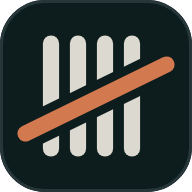
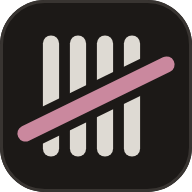
Replace palette with warm graphite and dusty rose; name tokens by role
- New palette: warm graphite ground, soft chalk text, dusty-rose accent,
  sage positive, straw caution, red danger; all text pairs pass AA
- Rename tokens by role (ground, accent, positive, caution, danger) so a
  retheme never leaves a misleading name; update script, preview and docs
- Regenerate logo set and PNGs from the new tokens

Claude-Session: https://claude.ai/code/session_01QeMCNkGiVxP5V43JLK8QcR

Changed region(s): [[0.0938, 0.2812, 0.9062, 0.75]]

diff --git a/preview/brand.html b/preview/brand.html
@@ -27,9 +27,9 @@
   .plate { border-radius: var(--radius-lg); min-height: 200px; display: grid; place-items: center; padding: 28px; border: 1px solid var(--line); }
   .plate img { max-width: 100%; height: 56px; }
   .plate small { display: block; }
-  .plate.on-slate { background: var(--bg-sidebar); }
+  .plate.on-ground { background: var(--bg-sidebar); }
   .plate.on-chalk { background: var(--chalk-100); border-color: transparent; }
-  .plate.on-minium { background: var(--minium); border-color: transparent; }
+  .plate.on-accent { background: var(--accent); border-color: transparent; }
   .rules { display: grid; grid-template-columns: repeat(3, 1fr); gap: 32px; margin-top: 32px; color: var(--text-2); }
   .rules b { display: block; color: var(--text); margin-bottom: 4px; font-weight: 600; }
   .sizes { display: flex; align-items: flex-end; gap: 28px; margin-top: 8px; flex-wrap: wrap; }
@@ -97,7 +97,7 @@
     <div>
       <p class="eyebrow">Brand board · v1</p>
       <h1>Every transaction,<br><em>counted.</em></h1>
-      <p>Tally is a personal ledger. Petrol-green cloth, chalk-white figures, and a single orange stroke for whatever needs your attention.</p>
+      <p>Tally is a personal ledger. Warm graphite, soft chalk figures, and a single rose stroke for whatever needs your attention.</p>
     </div>
     <img class="tile" src="../brand/tally-icon.svg" alt="Tally app icon">
   </section>
@@ -105,15 +105,15 @@
   <section>
     <p class="eyebrow">Logo</p>
     <h2>Four counted, one struck.</h2>
-    <p class="lede">A tally is the oldest way to keep count of money owed. Four chalk strokes, then a fifth drawn across them in rubric orange, the ink that scribes used for ledger totals. The diagonal also reads as a line trending up. In the wordmark, the bars are cut to the exact height of the two l’s.</p>
+    <p class="lede">A tally is the oldest way to keep count of money owed. Four chalk strokes, then a fifth drawn across them in the accent colour. The diagonal also reads as a line trending up. In the wordmark, the bars are cut to the exact height of the two l’s.</p>
     <div class="plates">
-      <div class="plate on-slate"><img src="../brand/tally-logo.svg" alt="Tally logo on slate"></div>
+      <div class="plate on-ground"><img src="../brand/tally-logo.svg" alt="Tally logo on ground"></div>
       <div class="plate on-chalk"><img src="../brand/tally-logo-on-light.svg" alt="Tally logo on chalk"></div>
-      <div class="plate on-minium"><img src="../brand/tally-mark-on-minium.svg" style="height:88px" alt="Tally mark on minium"></div>
+      <div class="plate on-accent"><img src="../brand/tally-mark-on-accent.svg" style="height:88px" alt="Tally mark on accent"></div>
     </div>
     <div class="rules">
       <div><b>Clear space</b>Keep one bar-height clear on every side. Nothing crosses the diagonal.</div>
-      <div><b>Colour</b>Chalk strokes with orange diagonal on slate. Slate strokes with the deeper orange (<span data-hex-text="--minium-deep"></span>) on light. On orange: slate strokes, chalk diagonal.</div>
+      <div><b>Colour</b>Chalk strokes with the accent diagonal on dark. Dark strokes with the deeper accent (<span data-hex-text="--accent-deep"></span>) on light. On the accent colour: dark strokes, chalk diagonal.</div>
       <div><b>Smallest size</b>Lockup: 96px wide. Mark alone: 16px. Below 24px use the heavier favicon cut.</div>
     </div>
     <div class="sizes" style="margin-top:40px">
@@ -128,27 +128,27 @@
 
   <section>
     <p class="eyebrow">Colour</p>
-    <h2>Petrol, chalk, and one orange.</h2>
-    <p class="lede">Surfaces step up in even lightness from the page to menus. Text is chalk, never pure white. Orange is reserved for the brand and the primary action, so when it appears it means something.</p>
+    <h2>Graphite, chalk, and one rose.</h2>
+    <p class="lede">Surfaces step up in even lightness from the page to menus. Text is chalk, never pure white. The accent is reserved for the brand and the primary action, so when it appears it means something.</p>
     <div class="ramp">
-      <div data-bg="--slate-950"><b>Slate 950</b><span class="hex"></span><span>Page</span></div>
-      <div data-bg="--slate-900"><b>Slate 900</b><span class="hex"></span><span>Sidebar, footer</span></div>
-      <div data-bg="--slate-850"><b>Slate 850</b><span class="hex"></span><span>Cards, inputs</span></div>
-      <div data-bg="--slate-800"><b>Slate 800</b><span class="hex"></span><span>Row hover</span></div>
-      <div data-bg="--slate-750"><b>Slate 750</b><span class="hex"></span><span>Menus</span></div>
-      <div data-bg="--slate-700"><b>Slate 700</b><span class="hex"></span><span>Hairlines</span></div>
-      <div data-bg="--slate-600"><b>Slate 600</b><span class="hex"></span><span>Borders</span></div>
+      <div data-bg="--ground-950"><b>Ground 950</b><span class="hex"></span><span>Page</span></div>
+      <div data-bg="--ground-900"><b>Ground 900</b><span class="hex"></span><span>Sidebar, footer</span></div>
+      <div data-bg="--ground-850"><b>Ground 850</b><span class="hex"></span><span>Cards, inputs</span></div>
+      <div data-bg="--ground-800"><b>Ground 800</b><span class="hex"></span><span>Row hover</span></div>
+      <div data-bg="--ground-750"><b>Ground 750</b><span class="hex"></span><span>Menus</span></div>
+      <div data-bg="--ground-700"><b>Ground 700</b><span class="hex"></span><span>Hairlines</span></div>
+      <div data-bg="--ground-600"><b>Ground 600</b><span class="hex"></span><span>Borders</span></div>
     </div>
     <div class="signals">
-      <div class="sw" data-bg="--minium" data-fg="--minium-ink"><div><b>Minium</b>Brand, primary action, focus</div><span><span class="hex"></span><br><span class="cr"></span></span></div>
-      <div class="sw" data-bg="--chalk-100" data-fg="--slate-950"><div><b>Chalk 100</b>Text</div><span><span class="hex"></span><br><span class="cr"></span></span></div>
-      <div class="sw" data-bg="--chalk-300" data-fg="--slate-950"><div><b>Chalk 300</b>Secondary text</div><span><span class="hex"></span><br><span class="cr"></span></span></div>
-      <div class="sw" data-bg="--chalk-500" data-fg="--slate-950"><div><b>Chalk 500</b>Labels, hints</div><span><span class="hex"></span><br><span class="cr"></span></span></div>
-      <div class="sw" data-bg="--verdigris" data-fg="--slate-950"><div><b>Verdigris</b>Money in, cleared</div><span><span class="hex"></span><br><span class="cr"></span></span></div>
-      <div class="sw" data-bg="--saffron" data-fg="--slate-950"><div><b>Saffron</b>Nearing a limit</div><span><span class="hex"></span><br><span class="cr"></span></span></div>
+      <div class="sw" data-bg="--accent" data-fg="--accent-ink"><div><b>Accent</b>Brand, primary action, focus</div><span><span class="hex"></span><br><span class="cr"></span></span></div>
+      <div class="sw" data-bg="--chalk-100" data-fg="--ground-950"><div><b>Chalk 100</b>Text</div><span><span class="hex"></span><br><span class="cr"></span></span></div>
+      <div class="sw" data-bg="--chalk-300" data-fg="--ground-950"><div><b>Chalk 300</b>Secondary text</div><span><span class="hex"></span><br><span class="cr"></span></span></div>
+      <div class="sw" data-bg="--chalk-500" data-fg="--ground-950"><div><b>Chalk 500</b>Labels, hints</div><span><span class="hex"></span><br><span class="cr"></span></span></div>
+      <div class="sw" data-bg="--positive" data-fg="--ground-950"><div><b>Positive</b>Money in, cleared</div><span><span class="hex"></span><br><span class="cr"></span></span></div>
+      <div class="sw" data-bg="--caution" data-fg="--ground-950"><div><b>Caution</b>Nearing a limit</div><span><span class="hex"></span><br><span class="cr"></span></span></div>
     </div>
     <div class="signals" style="grid-template-columns:1fr 3fr">
-      <div class="sw" data-bg="--madder" data-fg="--slate-950" style="min-height:84px"><div><b>Madder</b>Over budget, delete</div><span class="hex"></span></div>
+      <div class="sw" data-bg="--danger" data-fg="--ground-950" style="min-height:84px"><div><b>Danger</b>Over budget, delete</div><span class="hex"></span></div>
       <div class="sw" style="background:var(--surface);border:1px solid var(--line);min-height:84px;color:var(--text-2)"><div><b style="color:var(--text)">Spending is not an alarm</b>Outgoing amounts stay chalk. Colour is spent only on money in, and on limits being crossed, so a coloured number always means something.</div></div>
     </div>
     <div class="cats">
@@ -219,7 +219,7 @@ document.querySelectorAll("[data-bg]").forEach((el) => {
   if (el.classList.contains("cat-sw")) el.querySelector("i").style.background = `var(${bg})`; else el.style.background = `var(${bg})`;
   if (fg) el.style.color = `var(${fg})`;
   const hex = tok(bg), h = el.querySelector(".hex"); if (h) h.textContent = hex.toUpperCase();
-  const cr = el.querySelector(".cr"); if (cr) cr.textContent = ratio(hex, fg ? tok(fg) : tok("--slate-950")).toFixed(1) + ":1 " + (fg === "--minium-ink" ? "with ink text" : "on page");
+  const cr = el.querySelector(".cr"); if (cr) cr.textContent = ratio(hex, fg ? tok(fg) : tok("--ground-950")).toFixed(1) + ":1 " + (fg === "--accent-ink" ? "with ink text" : "on page");
 });
 document.querySelectorAll("[data-hex-text]").forEach((el) => (el.textContent = tok(el.dataset.hexText).toUpperCase()));
 </script>

diff --git a/theme/tokens.css b/theme/tokens.css
@@ -1,6 +1,6 @@
 /* ==========================================================================
    TALLY — design tokens
-   Dark petrol ledger, soft chalk text, one clay-orange signal.
+   Warm graphite, soft chalk text, one dusty-rose accent.
    THIS FILE IS THE ONLY PLACE COLOURS ARE DEFINED. Components read the semantic
    aliases below; after editing, run `node scripts/sync-brand.mjs`.
    ========================================================================== */
@@ -8,67 +8,64 @@
 :root {
   color-scheme: dark;
 
-  /* ---- Slate (surfaces) ------------------------------------------------ */
-  --slate-950: #081517; /* page background */
-  --slate-900: #0d1c1d; /* sidebar, footer */
-  --slate-850: #122123; /* cards, entry row, inputs */
-  --slate-800: #172628; /* row hover */
-  --slate-750: #1b2b2d; /* menus, popovers */
-  --slate-700: #273739; /* hairlines */
-  --slate-600: #3d5052; /* strong borders, ring outlines */
+  /* ---- Ground (surfaces) ------------------------------------------------ */
+  --ground-950: #161311; /* page background */
+  --ground-900: #1c1917; /* sidebar, footer */
+  --ground-850: #221f1d; /* cards, entry row, inputs */
+  --ground-800: #272421; /* row hover */
+  --ground-750: #2c2926; /* menus, popovers */
+  --ground-700: #383431; /* hairlines */
+  --ground-600: #504c49; /* strong borders, ring outlines */
 
   /* ---- Chalk (text) ---------------------------------------------------- */
-  --chalk-100: #dbd9d0; /* primary text */
-  --chalk-300: #a5afab; /* secondary text */
-  --chalk-500: #849090; /* tertiary text, placeholders */
+  --chalk-100: #dedad3; /* primary text */
+  --chalk-300: #b1ada7; /* secondary text */
+  --chalk-500: #918d86; /* tertiary text, placeholders */
 
   /* ---- Signals --------------------------------------------------------- */
-  --minium: #d2794f; /* brand + primary action. Named for the red-orange ink scribes used for ledger totals. */
-  --minium-bright: #e1875a; /* hover */
-  --minium-deep: #b85d35; /* brand orange on light backgrounds (logo on paper) */
-  --minium-ink: #170d08; /* text on minium */
-  --verdigris: #71b8a2; /* money in, cleared, success */
-  --saffron: #d1b46e; /* caution: nearing a budget limit */
-  --madder: #d47880; /* danger: over budget, destructive actions */
+  --accent: #ca889e; /* brand + primary action: buttons, focus, active nav, the logo's struck stroke */
+  --accent-bright: #db98ae; /* hover */
+  --accent-deep: #ab6980; /* the accent on light backgrounds (logo on paper) */
+  --accent-ink: #170c0f; /* text on accent */
+  --positive: #8dbf9a; /* money in, cleared, success */
+  --caution: #d6bb79; /* caution: nearing a budget limit */
+  --danger: #ed6e63; /* danger: over budget, destructive actions */
 
   /* ---- Categories (equal lightness, so no category shouts) -------------- */
   --cat-groceries: #86b281;
   --cat-dining: #d09b77;
   --cat-transport: #71a1ca;
   --cat-shopping: #b685b1;
-  --cat-gifts: #cd8894;
+  --cat-gifts: #cd8890;
   --cat-entertainment: #9590ca;
   --cat-health: #71b6b5;
-  --cat-utilities: #afb474;
+  --cat-utilities: #b6b171;
   --cat-misc: #859697;
 
   /* ---- Semantic aliases: use these in components ------------------------ */
-  --bg: var(--slate-950);
-  --bg-sidebar: var(--slate-900);
-  --surface: var(--slate-850);
-  --surface-hover: var(--slate-800);
-  --surface-raised: var(--slate-750);
-  --line: var(--slate-700);
-  --line-strong: var(--slate-600);
+  --bg: var(--ground-950);
+  --bg-sidebar: var(--ground-900);
+  --surface: var(--ground-850);
+  --surface-hover: var(--ground-800);
+  --surface-raised: var(--ground-750);
+  --line: var(--ground-700);
+  --line-strong: var(--ground-600);
 
   --text: var(--chalk-100);
   --text-2: var(--chalk-300);
   --text-3: var(--chalk-500);
 
-  --brand: var(--minium);
-  --brand-hover: var(--minium-bright);
-  --brand-ink: var(--minium-ink);
-  --brand-soft: color-mix(in srgb, var(--minium) 14%, transparent);
+  --brand: var(--accent);
+  --brand-hover: var(--accent-bright);
+  --brand-ink: var(--accent-ink);
+  --brand-soft: color-mix(in srgb, var(--accent) 14%, transparent);
 
-  --positive: var(--verdigris);
-  --positive-soft: color-mix(in srgb, var(--verdigris) 14%, transparent);
-  --caution-soft: color-mix(in srgb, var(--saffron) 14%, transparent);
-  --danger-soft: color-mix(in srgb, var(--madder) 14%, transparent);
-  --caution: var(--saffron);
-  --danger: var(--madder);
+  --positive-soft: color-mix(in srgb, var(--positive) 14%, transparent);
+  --caution-soft: color-mix(in srgb, var(--caution) 14%, transparent);
+  --danger-soft: color-mix(in srgb, var(--danger) 14%, transparent);
 
-  --focus-ring: 0 0 0 2px var(--bg), 0 0 0 4px var(--minium);
-  --selection: color-mix(in srgb, var(--minium) 32%, transparent);
+  --focus-ring: 0 0 0 2px var(--bg), 0 0 0 4px var(--accent);
+  --selection: color-mix(in srgb, var(--accent) 32%, transparent);
 
   /* ---- Type ------------------------------------------------------------ */
   --font-display: "Bricolage Grotesque", "Instrument Sans", ui-sans-serif, system-ui, sans-serif;
@@ -145,10 +142,10 @@ h3 {
   color: var(--danger);
 }
 
-/* Scrollbars that belong to the slate, not the OS */
+/* Scrollbars that belong to the palette, not the OS */
 * {
   scrollbar-width: thin;
-  scrollbar-color: var(--slate-600) transparent;
+  scrollbar-color: var(--ground-600) transparent;
 }
 
 @media (prefers-reduced-motion: reduce) {

diff --git a/preview/app.css b/preview/app.css
@@ -122,7 +122,7 @@ button { cursor: pointer; }
 .mark button { display: grid; place-items: center; width: 24px; height: 24px; background: none; border: 0; border-radius: var(--radius-sm); }
 .mark button:hover { background: var(--surface-raised); }
 .tick { width: 3px; height: 14px; border-radius: 2px; background: var(--positive); }
-.ring { width: 12px; height: 12px; border-radius: 50%; border: 1.5px solid var(--slate-600); }
+.ring { width: 12px; height: 12px; border-radius: 50%; border: 1.5px solid var(--ground-600); }
 .mark button:hover .ring { border-color: var(--text-3); }
 
 /* inline "new transaction" row */

diff --git a/CLAUDE.md b/CLAUDE.md
@@ -10,12 +10,12 @@ Translate that into token edits; don't touch component files for a colour change
 
 1. **Colours live only in `theme/tokens.css`.** Never write a hex, `rgb()` or Tailwind colour literal in a component, page or stylesheet. Use the semantic aliases (`--bg`, `--surface`, `--text`, `--text-2`, `--brand`, `--positive`, `--danger`, `--cat-*`).
 2. **If a component needs a colour that has no token,** add a token to `tokens.css` (raw colour in the palette block, alias in the semantic block) and use that. Soft tints use `color-mix(in srgb, var(--x) 14%, transparent)`, so they follow the palette automatically.
-3. **Keep the palette structure when you change its values:**
-   - the `--slate-*` ramp steps up evenly in lightness (950 page → 600 borders) and keeps one hue
-   - `--chalk-100/300/500` are the text tiers
-   - `--minium` is the single brand/primary-action colour; `--minium-ink` is the text on it; `--minium-deep` is the brand colour on light backgrounds
-   - `--verdigris` money in, `--saffron` caution, `--madder` danger
-   - `--cat-*` share one lightness band so no category shouts
+3. **Keep the palette structure when you change its values.** Tokens are named by role, not by hue, so they stay true whatever colours you pick:
+   - `--ground-950…600`: surfaces, stepping up evenly in lightness (950 page → 600 borders), one hue family
+   - `--chalk-100/300/500`: the three text tiers
+   - `--accent`: the single brand and primary-action colour; `--accent-bright` hover, `--accent-deep` on light backgrounds, `--accent-ink` text on top of it
+   - `--positive` money in / cleared, `--caution` approaching a limit, `--danger` over budget / destructive. Keep danger clearly red-ish and clearly different from the accent
+   - `--cat-*`: category colours, one shared lightness band so no category shouts
 4. **Brightness is controlled by lightness and chroma.** To make it "less bright": lower chroma on the signals and categories, lower lightness on chalk. To make it "bolder": raise chroma. Work in OKLCH when reasoning, write hex in the file.
 5. **Spending is not an alarm.** Outgoing amounts stay `--text`; colour is for money in and limits crossed. Don't change that unless asked.
 6. Type and shape also live in `tokens.css` (`--font-*`, `--text-*`, `--radius-*`, `--shadow-pop`). Changing fonts means updating the `next/font` imports as well (see `THEME.md`).
@@ -38,4 +38,4 @@ To rename the product, replace the outline: set the text in Bricolage Grotesque 
 
 ### Copy on the brand board
 
-`preview/brand.html` reads every colour from the tokens, but its headline and descriptions ("petrol, chalk, and one orange") describe the default palette. If a theme change makes them untrue, update the wording.
+`preview/brand.html` reads every colour from the tokens, but its headline and descriptions ("graphite, chalk, and one rose") describe the default palette. If a theme change makes them untrue, update the wording.

diff --git a/THEME.md b/THEME.md
@@ -1,6 +1,6 @@
 # Tally: theme and logo
 
-Direction: **muted petrol-green ledger cloth, soft chalk figures, one clay-orange signal.**
+Direction: **warm graphite, soft chalk figures, one dusty-rose accent.**
 The logo is a tally mark: four counted strokes, one struck across.
 
 > **Heads-up:** this repo had no app code when I built this, so the kit is a drop-in plus a faithful
@@ -17,7 +17,7 @@ The whole look comes from **one file, `theme/tokens.css`**. `CLAUDE.md` teaches 
 /theme add a light mode
 ```
 
-or in plain chat: "make the category colours quieter", "the orange is too loud".
+or in plain chat: "make the category colours quieter", "the rose is too pink".
 Claude Code edits the tokens, runs `node scripts/sync-brand.mjs` (regenerates the logo set and checks contrast), and checks the result by eye.
 Because components only read tokens, nothing else needs to change.
 
@@ -37,13 +37,21 @@ Open in a browser, no build step: `preview/transactions.html` (your screen, new 
 
 ## Palette (current)
 
-Surfaces `--slate-950…600` (page `#081517`), text `--chalk-100/300/500` (`#DBD9D0` / `#A5AFAB` / `#849090`),
-brand `--minium` (`#D2794F`), money in `--verdigris`, caution `--saffron`, danger `--madder`, nine `--cat-*` colours.
-The brand board always shows the live values and contrast.
+| Role | Tokens |
+|---|---|
+| Surfaces | `--ground-950` page `#161311`, then 900, 850, 800, 750, 700, 600 (borders) |
+| Text | `--chalk-100` `#DEDAD3`, `--chalk-300` `#B1ADA7`, `--chalk-500` `#918D86` |
+| Brand and primary action | `--accent` `#CA889E` (dusty rose), plus `-bright`, `-deep`, `-ink` |
+| Money in, cleared | `--positive` sage `#8DBF9A` |
+| Nearing a limit | `--caution` straw `#D6BB79` |
+| Over budget, destructive | `--danger` red `#ED6E63` |
+| Categories | nine `--cat-*` colours in one lightness band |
+
+Tokens are named by role, not hue, so a retheme never leaves a misleading name behind. `preview/brand.html` always shows the live values and contrast.
 
 Rules that keep it feeling designed:
 
-1. **Clay orange means brand or primary action.** Not decoration, not "bad".
+1. **The accent means brand or primary action.** Not decoration, not "bad".
 2. **Spending is not an alarm.** Outgoing amounts stay chalk; colour is for money in and limits crossed.
 3. **The tally stroke is the one recurring device:** active nav item, highlighted suggestion, cleared transaction.
 4. Money is tabular (`.num`), uses a true minus (U+2212), and dims the cents.

diff --git a/.claude/commands/theme.md b/.claude/commands/theme.md
@@ -7,7 +7,7 @@ The user wants to change the app's look: **$ARGUMENTS**
 
 Follow the theming rules in `CLAUDE.md`. In short:
 
-1. Read `theme/tokens.css` and decide the smallest set of token edits that delivers the request. Keep the palette's structure (even slate ramp, one brand colour, categories in one lightness band). Edit only `theme/tokens.css`.
+1. Read `theme/tokens.css` and decide the smallest set of token edits that delivers the request. Keep the palette's structure (even ground ramp, one accent colour, danger distinct from the accent, categories in one lightness band). Edit only `theme/tokens.css`.
 2. Run `node scripts/sync-brand.mjs`. If it marks any text pair with `!`, fix the lightness and run it again until it passes.
 3. If the app is runnable, start it and look at the Transactions page; otherwise open `preview/transactions.html` and `preview/brand.html` in a browser and screenshot them. Judge by eye: is anything harsh, muddy, or hard to tell apart (category dots, cleared vs not cleared)? Adjust once if so.
 4. Reply with: what you changed in one or two sentences, the new key colours (page, text, brand), and anything you chose that the user might want to reverse. Do not paste the whole file.
